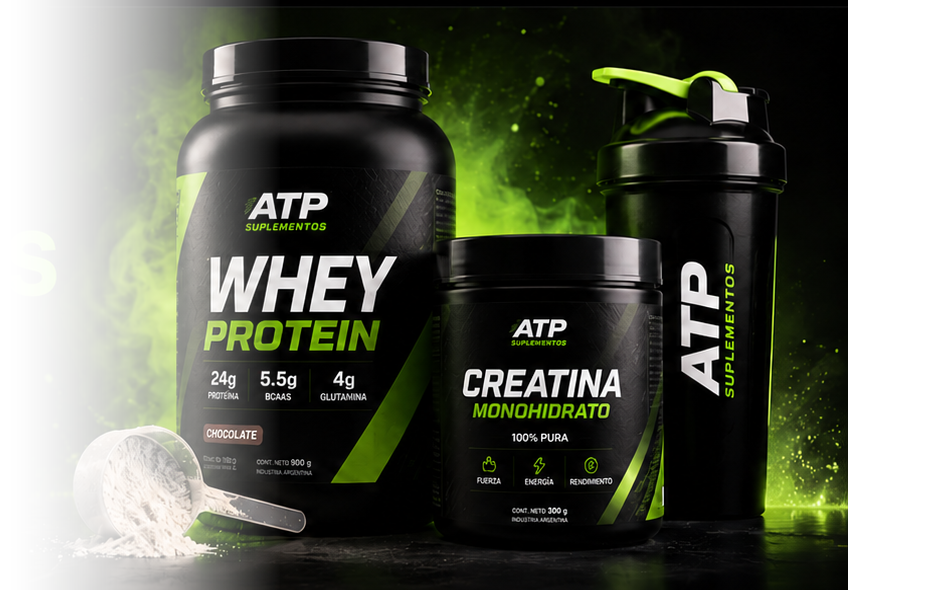
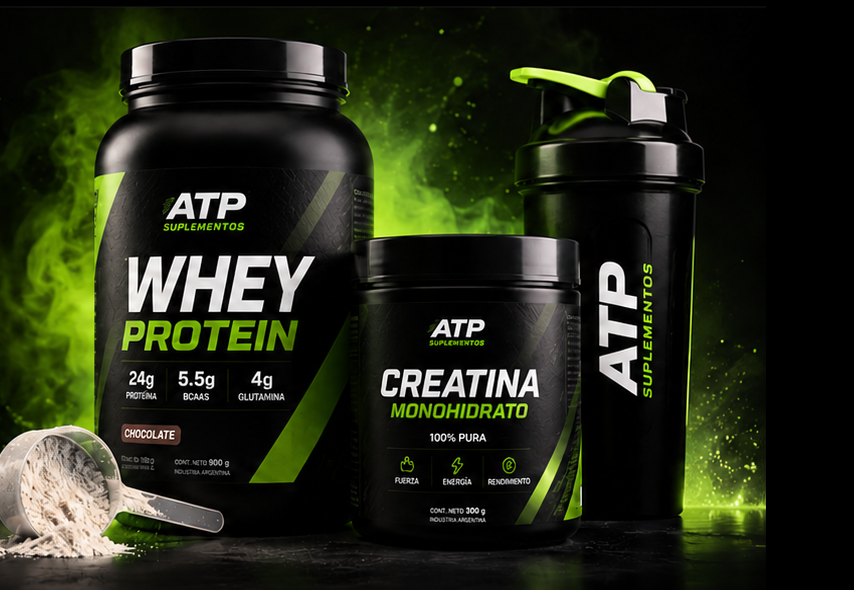
Add files via upload

diff --git a/store.css b/store.css
@@ -587,3 +587,143 @@ img{max-width:100%;height:auto}.product-image img{object-fit:contain;aspect-rati
   .hero-shipping{font-size:13px!important;margin-bottom:12px!important}
   .hero-buttons .btn{min-width:148px!important;min-height:44px!important;font-size:13px!important;padding:0 18px!important}
 }
+
+/* ===== HERO DEFINITIVO: composición limpia y responsive ===== */
+.hero{
+  position:relative!important;
+  min-height:540px!important;
+  height:auto!important;
+  padding:calc(var(--header) + 42px) clamp(28px,5.5vw,92px) 52px!important;
+  display:flex!important;
+  align-items:center!important;
+  justify-content:flex-start!important;
+  overflow:hidden!important;
+  isolation:isolate!important;
+  background:#020302!important;
+}
+.hero-grid{display:none!important}
+.hero:after{
+  content:""!important;
+  position:absolute!important;
+  inset:0!important;
+  z-index:0!important;
+  pointer-events:none!important;
+  background:linear-gradient(90deg,#020302 0%,#020302 38%,rgba(2,3,2,.94) 48%,rgba(2,3,2,.30) 66%,rgba(2,3,2,.02) 100%)!important;
+}
+.hero-photo{
+  position:absolute!important;
+  z-index:0!important;
+  top:var(--header)!important;
+  right:0!important;
+  bottom:0!important;
+  left:auto!important;
+  width:64%!important;
+  height:auto!important;
+  opacity:1!important;
+  background-image:image-set(url('hero-atp-products.webp') type('image/webp'),url('hero-atp-products.png') type('image/png'))!important;
+  background-repeat:no-repeat!important;
+  background-position:right center!important;
+  background-size:contain!important;
+  filter:none!important;
+}
+.hero-content{
+  position:relative!important;
+  z-index:2!important;
+  width:min(600px,46%)!important;
+  max-width:600px!important;
+  margin:0!important;
+  text-align:left!important;
+}
+.hero-kicker{display:inline-flex!important;margin:0 0 18px!important}
+.hero h1{
+  display:block!important;
+  max-width:590px!important;
+  margin:0!important;
+  color:#fff!important;
+  font-size:clamp(55px,5.7vw,88px)!important;
+  line-height:.88!important;
+  letter-spacing:-.06em!important;
+  font-weight:950!important;
+  text-transform:uppercase!important;
+  overflow-wrap:normal!important;
+}
+.hero h1 span,.hero h1 strong{display:inline!important;color:inherit!important}
+.hero-subtitle{
+  margin:26px 0 10px!important;
+  color:#fff!important;
+  font-size:clamp(20px,1.7vw,28px)!important;
+  line-height:1.15!important;
+  letter-spacing:-.025em!important;
+  font-weight:650!important;
+}
+.hero-content>span{
+  display:block!important;
+  max-width:500px!important;
+  margin:0 0 18px!important;
+  color:#c8cec5!important;
+  font-size:15px!important;
+  line-height:1.55!important;
+}
+.hero-shipping{
+  display:flex!important;
+  margin:0 0 22px!important;
+  padding:0!important;
+  border:0!important;
+  background:transparent!important;
+  color:#fff!important;
+  font-size:16px!important;
+  font-weight:800!important;
+}
+.hero-buttons{justify-content:flex-start!important;width:auto!important}
+.hero-buttons .btn{width:auto!important;min-width:180px!important;min-height:50px!important;font-size:14px!important}
+
+@media(max-width:1050px) and (min-width:761px){
+  .hero{min-height:500px!important;padding-left:34px!important;padding-right:34px!important}
+  .hero-photo{width:60%!important}
+  .hero-content{width:48%!important}
+  .hero h1{font-size:clamp(48px,6.2vw,68px)!important}
+  .hero-content>span{font-size:13px!important}
+}
+
+@media(max-width:760px){
+  .hero{
+    min-height:auto!important;
+    padding:calc(var(--header) + 285px) 20px 34px!important;
+    display:block!important;
+    background:#020302!important;
+  }
+  .hero-photo{
+    top:var(--header)!important;
+    left:0!important;
+    right:0!important;
+    bottom:auto!important;
+    width:100%!important;
+    height:285px!important;
+    background-size:contain!important;
+    background-position:center center!important;
+    background-color:#020302!important;
+  }
+  .hero:after{
+    background:linear-gradient(180deg,rgba(2,3,2,0) 0%,rgba(2,3,2,.02) 45%,#020302 58%,#020302 100%)!important;
+  }
+  .hero-content{width:100%!important;max-width:560px!important;margin:0!important}
+  .hero-kicker{display:block!important;margin:0 0 10px!important;font-size:10px!important}
+  .hero-kicker:before{display:none!important}
+  .hero h1{max-width:520px!important;font-size:clamp(42px,11.5vw,58px)!important;line-height:.9!important}
+  .hero-subtitle{margin:18px 0 8px!important;font-size:19px!important}
+  .hero-content>span{font-size:13px!important;margin-bottom:14px!important}
+  .hero-shipping{font-size:14px!important;margin-bottom:17px!important}
+  .hero-buttons .btn{min-width:170px!important;min-height:48px!important}
+}
+
+@media(max-width:430px){
+  .hero{padding:calc(var(--header) + 235px) 16px 28px!important}
+  .hero-photo{height:235px!important;background-size:contain!important;background-position:center center!important}
+  .hero:after{background:linear-gradient(180deg,rgba(2,3,2,0) 0%,rgba(2,3,2,.02) 44%,#020302 58%,#020302 100%)!important}
+  .hero-kicker{font-size:9px!important;margin-bottom:8px!important}
+  .hero h1{font-size:clamp(36px,11vw,46px)!important;line-height:.91!important;max-width:370px!important}
+  .hero-subtitle{font-size:17px!important;margin:14px 0 7px!important}
+  .hero-content>span{font-size:12px!important;line-height:1.45!important;margin-bottom:12px!important}
+  .hero-shipping{font-size:13px!important;margin-bottom:14px!important}
+  .hero-buttons .btn{min-width:160px!important;min-height:46px!important;font-size:13px!important}
+}
